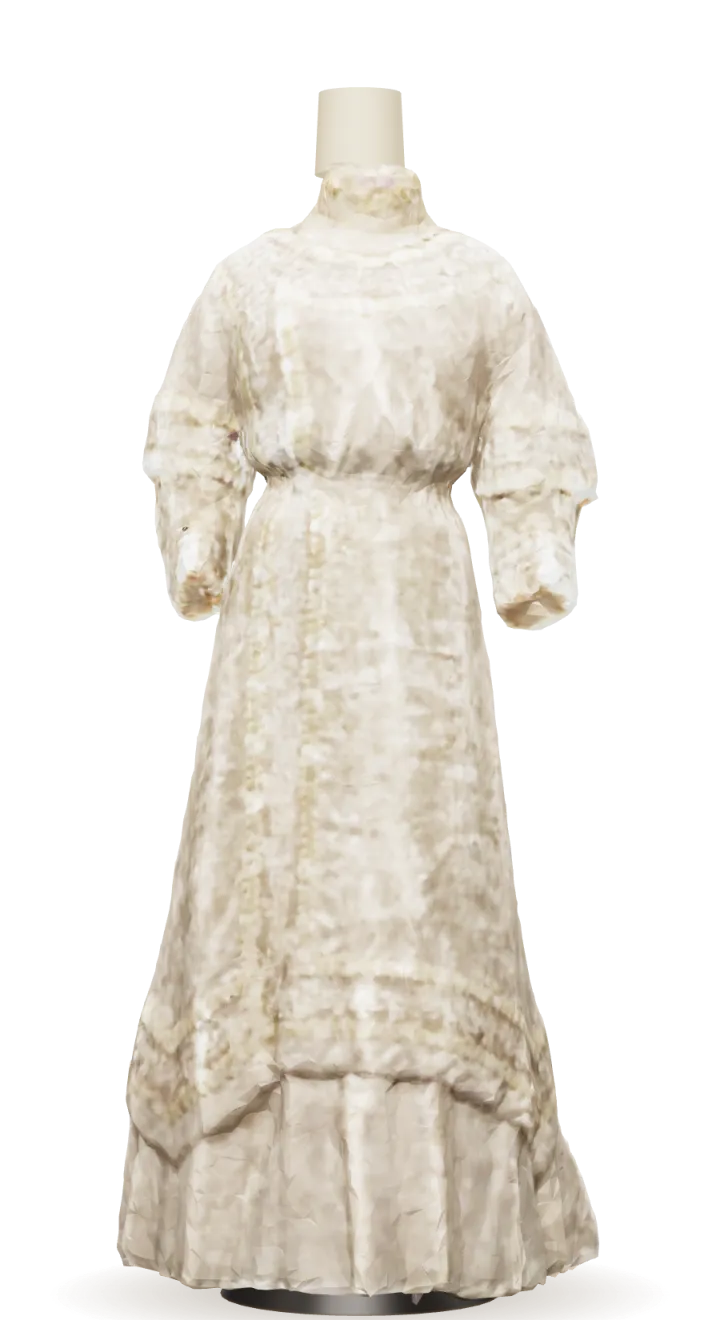
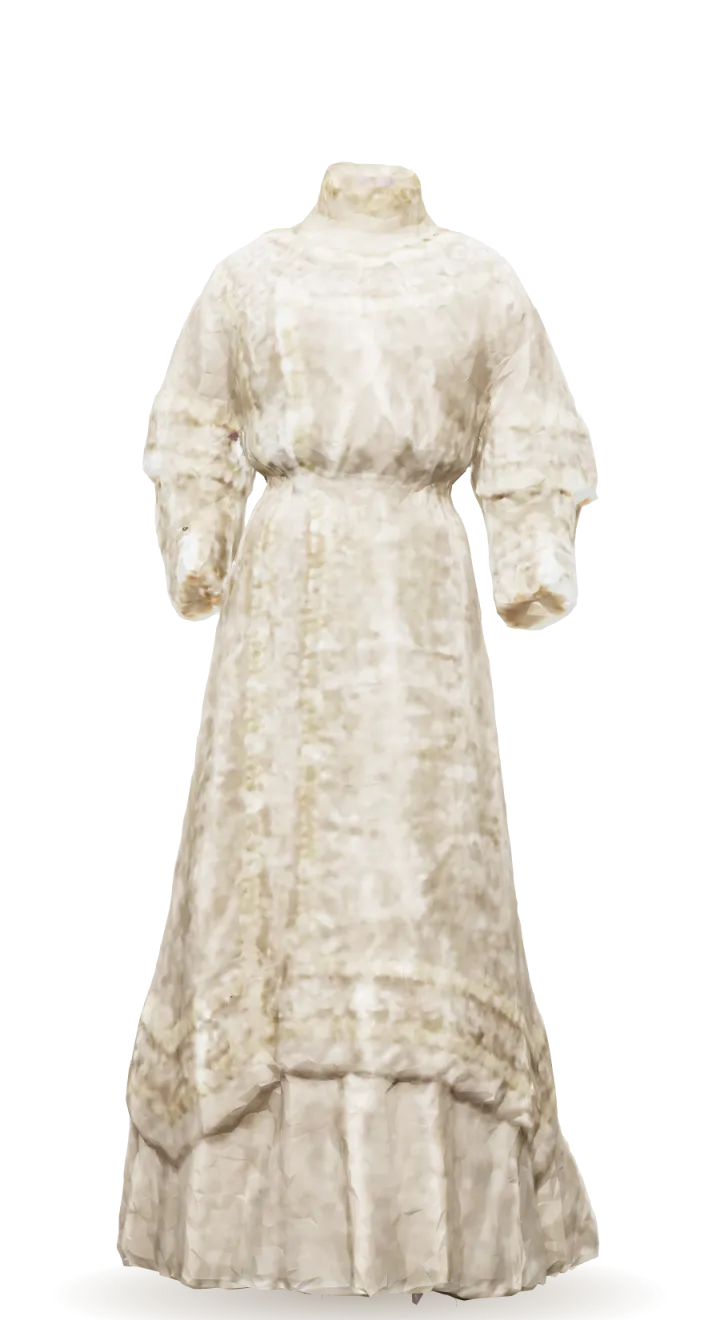
H20: landing page without the dress form (stills, share card, copy)

Changed region(s): [[0.3056, 0.9629, 0.6722, 1.0], [0.4278, 0.0621, 0.5806, 0.1553]]

diff --git a/mockups/index.html b/mockups/index.html
@@ -8,7 +8,7 @@
 </script>
 <meta name="viewport" content="width=device-width, initial-scale=1, viewport-fit=cover">
 <title>MoMu · Wear 255 years</title>
-<meta name="description" content="Win real pieces from MoMu, the fashion museum in Antwerp, by guessing when they were made. Then wear them on a museum dress form, from a 1750 jak to 2005 football boots.">
+<meta name="description" content="Win real pieces from MoMu, the fashion museum in Antwerp, by guessing when they were made. Then wear them together, from a 1750 jak to 2005 football boots.">
 <meta name="theme-color" content="#ffffff">
 <link rel="icon" href="assets/brand/favicon.svg" type="image/svg+xml">
 <link rel="preload" as="font" type="font/woff2" href="assets/fonts/hanken-grotesk.woff2" crossorigin>
@@ -49,7 +49,7 @@ h1, h2, h3, p, ol, figure, blockquote { margin: 0; }
 .form img { position: absolute; inset: 0; width: 100%; height: 100%; object-fit: contain; opacity: 0; filter: blur(10px); transform: translateY(-18px) scale(.985);
   transition: opacity 200ms ease, filter 200ms ease, transform 200ms ease; }   /* the outgoing outfit leaves quickly */
 .form img.on { opacity: 1; filter: none; transform: none;
-  transition: opacity 420ms var(--ease-out), filter 480ms var(--ease-out), transform 640ms var(--ease-out); }   /* the new one drops onto the form, as in the app */
+  transition: opacity 420ms var(--ease-out), filter 480ms var(--ease-out), transform 640ms var(--ease-out); }   /* the new one drops into place, as in the app */
 .caption { position: absolute; left: var(--gutter); bottom: calc(var(--track-h) + 28px); width: min(330px, 27vw); }
 .caption .name { font: var(--t-title); font-size: 26px; text-transform: uppercase; color: var(--accent-ink); margin: 0 0 4px; text-wrap: balance; }
 .caption .tag { margin-top: 4px; }
@@ -233,13 +233,13 @@ section { scroll-margin-top: 24px; }
 <main>
 <section class="hero" aria-labelledby="pitchTitle">
   <div class="numeral" aria-hidden="true"><span id="num">1750</span></div>
-  <div class="form" id="form" role="img" aria-label="MoMu's dress form wearing the Jak, 1750 to 1780"></div>
+  <div class="form" id="form" role="img" aria-label="The Jak, 1750 to 1780"></div>
 
   <div class="caption" id="caption" aria-live="off"></div>
 
   <div class="pitch">
     <h1 id="pitchTitle" class="caps">Wear 255 years of MoMu</h1>
-    <p>Win real pieces from Antwerp's fashion museum by guessing when they were made. Then wear them, all at once, on a museum dress form.</p>
+    <p>Win real pieces from Antwerp's fashion museum by guessing when they were made. Then wear them, all at once.</p>
     <a class="btn-go" href="second-skin.html">Start dressing <svg width="18" height="18" viewBox="0 0 24 24" fill="none" stroke="currentColor" stroke-width="2" stroke-linecap="round" stroke-linejoin="round" aria-hidden="true"><path d="M5 12h14M13 6l6 6-6 6"/></svg></a>
   </div>
 
@@ -284,7 +284,7 @@ section { scroll-margin-top: 24px; }
       <li class="beat">
         <div class="beat-media">
           <figure class="span-look">
-            <img src="assets/landing/look.webp" width="720" height="1320" loading="lazy" alt="The dress form wearing the Jak, the monpe trousers and the football boots at once.">
+            <img src="assets/landing/look.webp" width="720" height="1320" loading="lazy" alt="The Jak, the monpe trousers and the football boots, worn together.">
             <figcaption>
               <span class="pin" style="left:4%;top:28%"><b>1750</b> Jak</span>
               <span class="pin" style="right:2%;top:56%"><b>1965</b> Monpe trousers</span>
@@ -295,8 +295,8 @@ section { scroll-margin-top: 24px; }
         <div>
           <h3 class="caps">Wear it: one look, 255 years</h3>
           <p class="label-line">ST503 · ST80931 · ST2407/1-2 · 1750 to 2005</p>
-          <p>Every piece you win goes into your wardrobe. Put it on the dress form with anything else you won: an eighteenth-century jak over 1965 monpe trousers, with Dirk Bikkembergs football boots from 2005.</p>
-          <p>Turn the form with your finger. The look tells you how many years it spans.</p>
+          <p>Every piece you win goes into your wardrobe. Wear it with anything else you won: an eighteenth-century jak over 1965 monpe trousers, with Dirk Bikkembergs football boots from 2005.</p>
+          <p>Turn the look with your finger. The look tells you how many years it spans.</p>
         </div>
       </li>
 
@@ -328,7 +328,7 @@ section { scroll-margin-top: 24px; }
         <div>
           <h3 class="caps">Remix the fabrics</h3>
           <p class="label-line">ST80930 on ST503 · 1950s ikat on a 1750 cut</p>
-          <p>Put the ikat of a 1950s vest on the body of a 1750 jak, or the furisode's painted silk on its sleeves. Centuries apart, on one form.</p>
+          <p>Put the ikat of a 1950s vest on the body of a 1750 jak, or the furisode's painted silk on its sleeves. Centuries apart, in one look.</p>
         </div>
       </li>
 
@@ -374,7 +374,7 @@ section { scroll-margin-top: 24px; }
 <section class="close" aria-labelledby="closeTitle">
   <div class="wrap">
     <h2 id="closeTitle" class="caps">The collection is waiting</h2>
-    <p>Start with a starter wardrobe on the dress form, or find a MoMu sticker at the Study Center and tap it.</p>
+    <p>Start with a starter wardrobe, or find a MoMu sticker at the Study Center and tap it.</p>
     <a class="btn-go" href="second-skin.html">Start dressing <svg width="18" height="18" viewBox="0 0 24 24" fill="none" stroke="currentColor" stroke-width="2" stroke-linecap="round" stroke-linejoin="round" aria-hidden="true"><path d="M5 12h14M13 6l6 6-6 6"/></svg></a>
   </div>
   <p class="bigyears" aria-hidden="true">1750–2005</p>
@@ -439,7 +439,7 @@ STOPS.forEach((s, i) => {
 });
 const tickEls = [...ticks.children];
 
-const stopAt = v => STOPS[Math.max(0, Math.min(LAST, Math.round(v / UNIT)))];   // the nearest stop dresses the form
+const stopAt = v => STOPS[Math.max(0, Math.min(LAST, Math.round(v / UNIT)))];   // the nearest stop picks the look
 let shown = null;
 function show(s, announce) {
   if (s === shown) return;
@@ -447,7 +447,7 @@ function show(s, announce) {
   const i = STOPS.indexOf(s);
   imgs.forEach((im, k) => im.classList.toggle("on", k === i));
   tickEls.forEach((t, k) => t.setAttribute("aria-current", k === i));
-  form.setAttribute("aria-label", s.finale ? "MoMu's dress form wearing the Jak, the monpe trousers and the football boots at once" : `MoMu's dress form wearing the ${s.name}, ${span(s.from, s.to)}`);
+  form.setAttribute("aria-label", s.finale ? "The Jak, the monpe trousers and the football boots, worn together" : `The ${s.name}, ${span(s.from, s.to)}`);
   caption.setAttribute("aria-live", announce ? "polite" : "off");
   caption.innerHTML = s.finale
     ? `<p class="name">${esc(s.name)}</p><p class="years">From 1750 to 2005</p><p class="tag">Your look · 3 pieces</p>
@@ -460,7 +460,7 @@ function setYear(v, announce) {
   const s = stopAt(v);
   const y = Math.round(yearAt(v));
   num.textContent = s.finale ? "255" : y;
-  slider.setAttribute("aria-valuetext", s.finale ? "Your look: 255 years on one form" : `${s.y}: ${s.name}, made ${span(s.from, s.to)}`);
+  slider.setAttribute("aria-valuetext", s.finale ? "Your look: 255 years at once" : `${s.y}: ${s.name}, made ${span(s.from, s.to)}`);
   show(s, announce);
 }
 

diff --git a/CHANGELOG.md b/CHANGELOG.md
@@ -10,9 +10,14 @@ Newest first. Each entry: what changed, why, and the decision behind it.
   The `?demo` avatar toggle is unchanged.
 - Why: the finishes only recoloured the form, and the form itself added nothing to the pieces (Hassan).
 - Decision: D1 changed to "no body under the pieces". A CLO avatar in its place was not done: the rigid scans clip on a
-  body and would each need the A9 fit. The landing page still shows the form in its stills and copy. Branch is stacked on
+  body and would each need the A9 fit. Branch is stacked on
   hassan/B-phone-ui (both change `second-skin.html`), so merge B-phone-ui first. Checked in the browser pane at 390 px
   (front, side, back, empty Stage, `?demo`), not on a phone.
+- Landing page too: the 13 slider stills (`assets/landing/<year>.webp`, `look.webp`) re-rendered from the new Stage with
+  `presentation/reel/scripts/landing-stills.mjs` (unused `bare` stop dropped), the share-card screen re-captured from the
+  app (Noor, Jak + football boots), and the copy, alt text and slider labels no longer name a dress form. Left as they
+  are: the Jak scan's own baked-in white bust (part of its texture; the `?demo` neck cut only removes the stub), the
+  E2 teaser video and its poster, and MoMu's photo of the Jak on its mannequin (`ST503.webp`).
 
 ## Phone UI: persistent wardrobe tiles, locked silhouettes, reduced-motion pass (2026-11-22, B5 + B6 + B8, branch hassan/B-phone-ui)
 - What (B5): the wardrobe builds each tile and tab chip once (`mockups/wardrobe.js`, `nodeFor`) and a render only reorders
